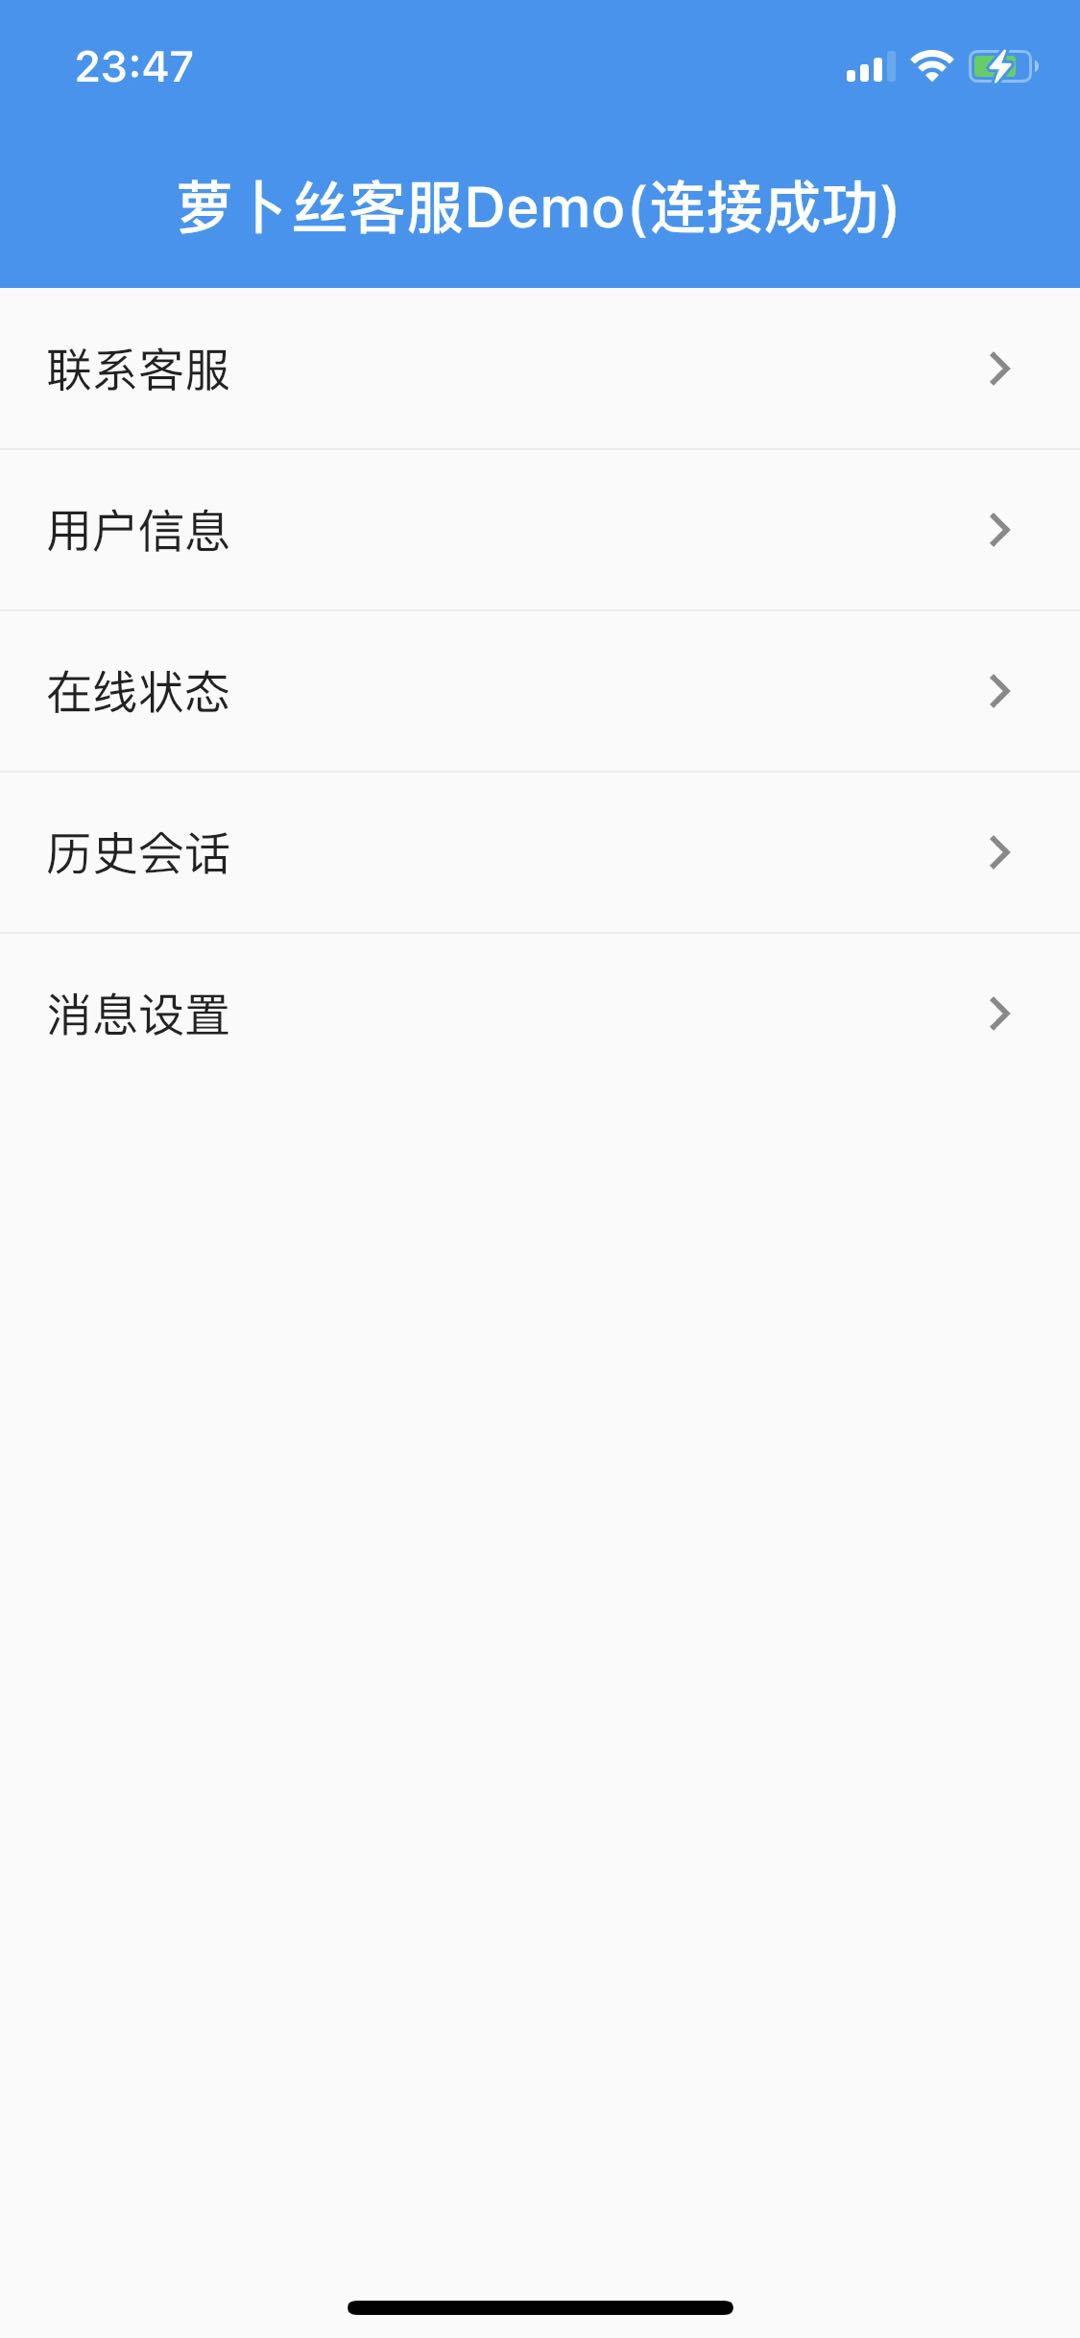
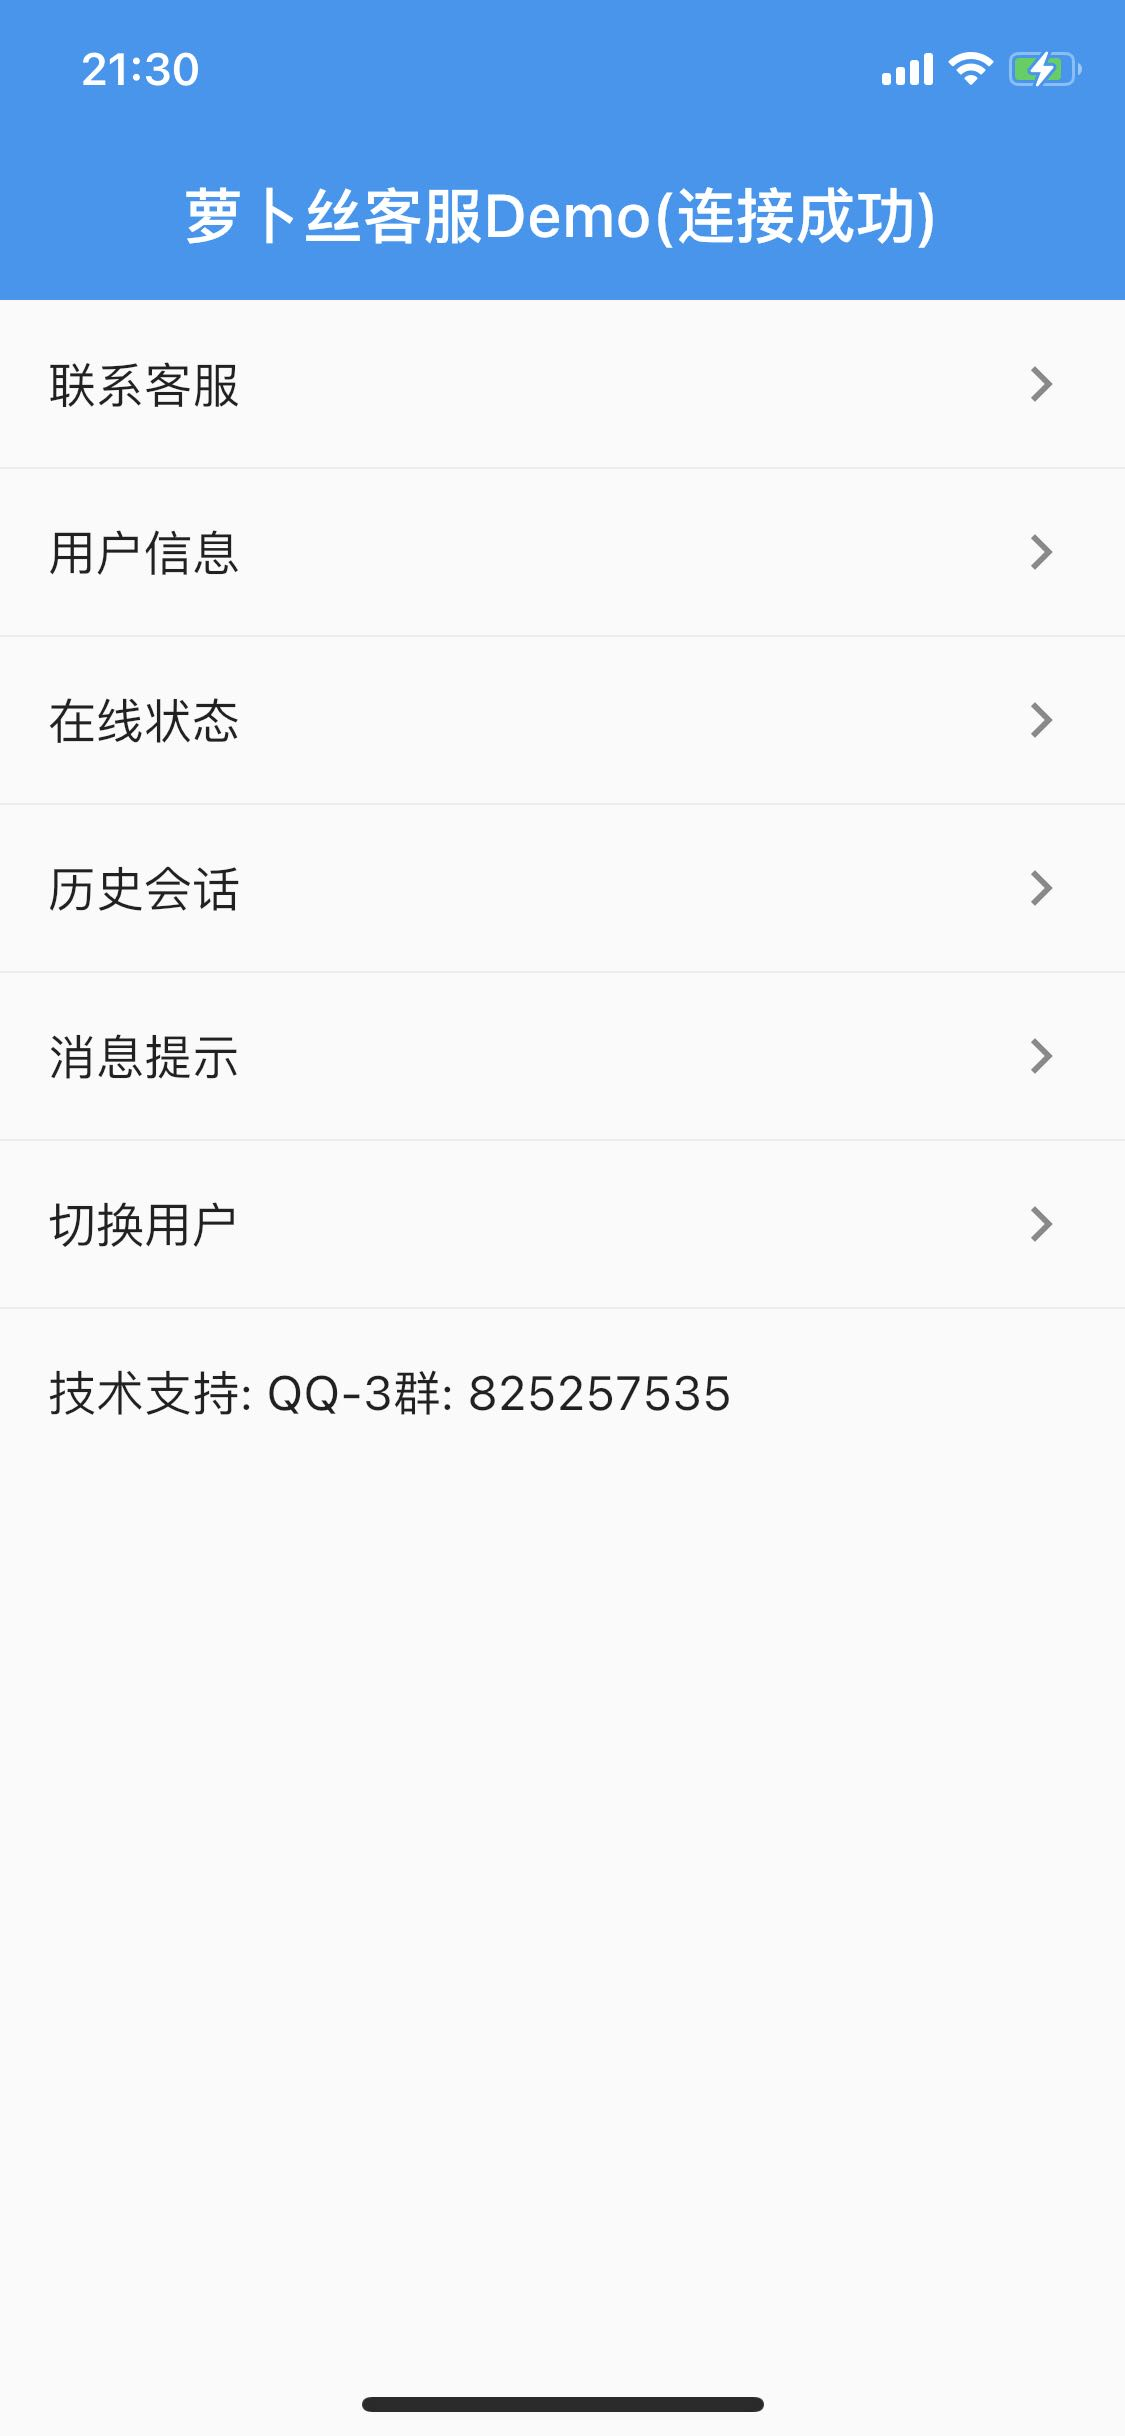
update

diff --git a/bytedesk_kefu/example/lib/page/switch_user_page.dart b/bytedesk_kefu/example/lib/page/switch_user_page.dart
@@ -1,0 +1,109 @@
+import 'package:bytedesk_kefu/bytedesk_kefu.dart';
+import 'package:flutter/material.dart';
+import 'package:fluttertoast/fluttertoast.dart';
+
+import 'user_info_page.dart';
+
+// 切换用户
+class SwitchUserPage extends StatefulWidget {
+  SwitchUserPage({Key? key}) : super(key: key);
+
+  @override
+  _SwitchUserPageState createState() => _SwitchUserPageState();
+}
+
+class _SwitchUserPageState extends State<SwitchUserPage> {
+  // 获取appkey，登录后台->渠道管理->Flutter->添加应用->获取appkey
+  String _appKey = '81f427ea-4467-4c7c-b0cd-5c0e4b51456f';
+  // 获取subDomain，也即企业号：登录后台->客服管理->客服账号->企业号
+  String _subDomain = "vip";
+
+  @override
+  void initState() {
+    super.initState();
+  }
+
+  @override
+  Widget build(BuildContext context) {
+    return Scaffold(
+      appBar: AppBar(
+        title: Text('切换用户'),
+        elevation: 0,
+      ),
+      body: ListView(
+          children: ListTile.divideTiles(
+        context: context,
+        tiles: [
+          ListTile(
+            title: Text('用户信息'),
+            trailing: Icon(Icons.keyboard_arrow_right),
+            onTap: () {
+              _userInfo();
+            },
+          ),
+          ListTile(
+            title: Text('用户1男'),
+            onTap: () {
+              _userBoyLogin();
+            },
+          ),
+          ListTile(
+            title: Text('用户2女'),
+            onTap: () {
+              _userGirlLogin();
+            },
+          ),
+          ListTile(
+            title: Text('退出登录'),
+            onTap: () {
+              _userLogout();
+            },
+          ),
+        ],
+      ).toList()),
+    );
+  }
+
+  void _userInfo() {
+    Navigator.of(context).push(new MaterialPageRoute(builder: (context) {
+      return new UserInfoPage();
+    }));
+  }
+
+  void _userBoyLogin() {
+    if (BytedeskKefu.isLogin()) {
+      Fluttertoast.showToast(msg: '请先退出登录');
+      return;
+    }
+    _initWithUsernameAndNicknameAndAvatar(
+        "myflutteruserboy",
+        "我是帅哥flutter",
+        "https://bytedesk.oss-cn-shenzhen.aliyuncs.com/avatars/boy.png",
+        _appKey,
+        _subDomain);
+  }
+
+  void _userGirlLogin() {
+    if (BytedeskKefu.isLogin()) {
+      Fluttertoast.showToast(msg: '请先退出登录');
+      return;
+    }
+    Fluttertoast.showToast(msg: '登录中');
+    _initWithUsernameAndNicknameAndAvatar(
+        "myflutterusergirl",
+        "我是美女flutter",
+        "https://bytedesk.oss-cn-shenzhen.aliyuncs.com/avatars/girl.png",
+        _appKey,
+        _subDomain);
+  }
+
+  void _initWithUsernameAndNicknameAndAvatar(String username, String nickname,
+      String avatar, String appKey, String subDomain) {
+    BytedeskKefu.initWithUsernameAndNicknameAndAvatar(username, nickname, avatar, appKey, subDomain);
+  }
+
+  void _userLogout() {
+    Fluttertoast.showToast(msg: '退出中');
+    BytedeskKefu.logout();
+  }
+}

diff --git a/bytedesk_kefu/example/lib/main.dart b/bytedesk_kefu/example/lib/main.dart
@@ -7,6 +7,7 @@ import 'package:bytedesk_kefu_example/page/chat_type_page.dart';
 import 'package:bytedesk_kefu_example/page/history_thread_page.dart';
 import 'package:bytedesk_kefu_example/page/online_status_page.dart';
 import 'package:bytedesk_kefu_example/page/setting_page.dart';
+import 'package:bytedesk_kefu_example/page/switch_user_page.dart';
 import 'package:bytedesk_kefu_example/page/user_info_page.dart';
 import 'package:overlay_support/overlay_support.dart';
 import 'package:flutter/material.dart';
@@ -136,6 +137,16 @@ class _MyAppState extends State<MyApp> with WidgetsBindingObserver {
               Navigator.of(context)
                   .push(new MaterialPageRoute(builder: (context) {
                 return new SettingPage();
+              }));
+            },
+          ),
+          ListTile(
+            title: Text('切换用户'),
+            trailing: Icon(Icons.keyboard_arrow_right),
+            onTap: () {
+              Navigator.of(context)
+                  .push(new MaterialPageRoute(builder: (context) {
+                return new SwitchUserPage();
               }));
             },
           ),

diff --git a/bytedesk_kefu/lib/ui/chat/page/chat_kf_page.dart b/bytedesk_kefu/lib/ui/chat/page/chat_kf_page.dart
@@ -523,7 +523,8 @@ class _ChatKFPageState extends State<ChatKFPage>
                             color: Theme.of(context).cardColor,
                           ),
                           // child: _textComposerWidget(),
-                          child: _chatInput(),
+                          // FIXME: 表情在web和Android有问题？暂时仅在iOS启用表情
+                          child: (BytedeskUtils.isWeb || BytedeskUtils.isAndroid) ? _textComposerWidget() : _chatInput(),
                         ),
                       ],
                     ),
@@ -561,7 +562,6 @@ class _ChatKFPageState extends State<ChatKFPage>
   // void _handleVoiceSelection(AudioFile? obj) async {
   //   print('_handleVoiceSelection');
   //   if (obj != null) {
-
   //   }
   // }
 

diff --git a/bytedesk_kefu/README.md b/bytedesk_kefu/README.md
@@ -62,9 +62,9 @@ BytedeskKefu.startWorkGroupChat(context, workGroupWid, "title");
 
 |                                                image1                                                 |                                                 image2                                                  |                                                  image3                                                  |
 | :---------------------------------------------------------------------------------------------------: | :-----------------------------------------------------------------------------------------------------: | :------------------------------------------------------------------------------------------------------: |
-|  <img src="https://github.com/Bytedesk/bytedesk-flutter/blob/master/home.jpeg?raw=true" width="250">  |  <img src="https://github.com/Bytedesk/bytedesk-flutter/blob/master/robot.jpeg?raw=true" width="250">   |  <img src="https://github.com/Bytedesk/bytedesk-flutter/blob/master/notice.jpeg?raw=true" width="250">   |
+|  <img src="https://github.com/Bytedesk/bytedesk-flutter/blob/master/home.jpeg?raw=true" width="250">  |  <img src="https://github.com/Bytedesk/bytedesk-flutter/blob/master/robot1.jpeg?raw=true" width="250">   |  <img src="https://github.com/Bytedesk/bytedesk-flutter/blob/master/robot2.jpeg?raw=true" width="250">   |
 |  <img src="https://github.com/Bytedesk/bytedesk-flutter/blob/master/chat.png?raw=true" width="250">   |   <img src="https://github.com/Bytedesk/bytedesk-flutter/blob/master/shop.png?raw=true" width="250">    | <img src="https://github.com/Bytedesk/bytedesk-flutter/blob/master/postscript.png?raw=true" width="250"> |
-| <img src="https://github.com/Bytedesk/bytedesk-flutter/blob/master/status.jpeg?raw=true" width="250"> | <img src="https://github.com/Bytedesk/bytedesk-flutter/blob/master/userinfo.jpeg?raw=true" width="250"> |                                                                                                          |
+| <img src="https://github.com/Bytedesk/bytedesk-flutter/blob/master/status.jpeg?raw=true" width="250"> | <img src="https://github.com/Bytedesk/bytedesk-flutter/blob/master/userinfo.jpeg?raw=true" width="250"> |  <img src="https://github.com/Bytedesk/bytedesk-flutter/blob/master/notice.jpeg?raw=true" width="250"> |
 
 ### Change UI
 

diff --git a/bytedesk_kefu/CHANGELOG.md b/bytedesk_kefu/CHANGELOG.md
@@ -1,5 +1,13 @@
 # Upgrade Log
 
+## 1.4.2
+
+* optimize user experience
+
+## 1.4.1
+
+* optimize user experience
+
 ## 1.4.0
 
 * optimize user experience
